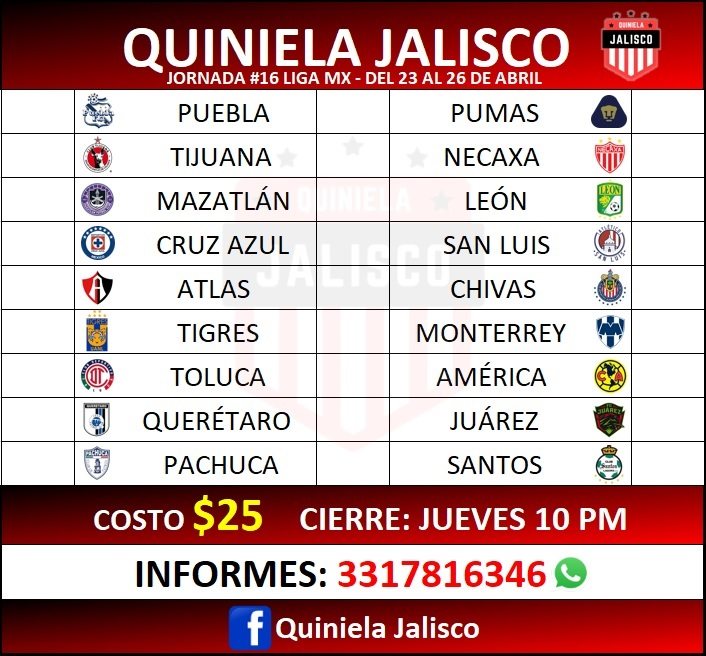
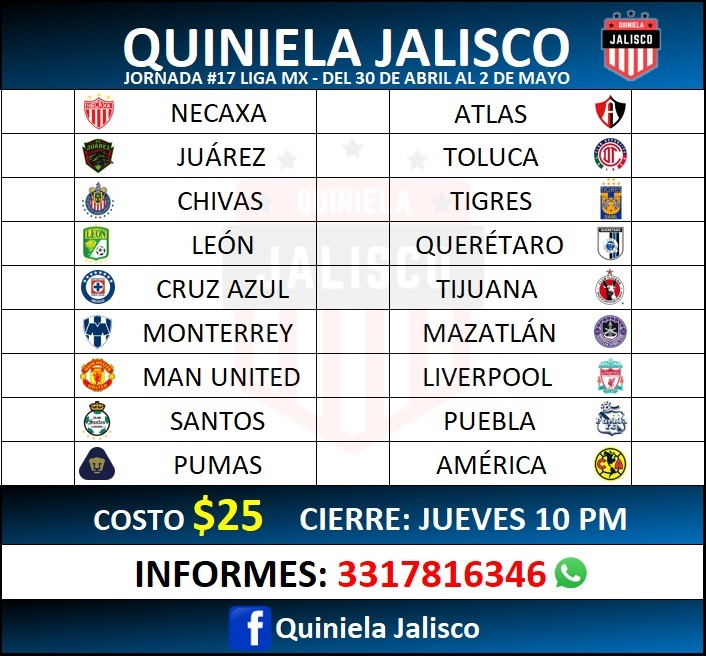
Jornada 17 C21

diff --git a/styles.css b/styles.css
@@ -88,8 +88,8 @@ h1{
     margin-top: 8%;
     border: solid 1px black;
     border-radius: 0 0 14px 14px;
-    background: -webkit-linear-gradient(0.04turn, rgb(8,20,20)  ,rgb(243,0,0) 80%);
-    background: linear-gradient(0.04turn, rgb(8,20,20)  ,rgb(243,0,0) 80%);
+    background: -webkit-linear-gradient(0.04turn, rgb(8,20,20)  ,rgb(0,104,176) 80%);
+    background: linear-gradient(0.04turn, rgb(8,20,20)  ,rgb(0,104,176) 80%);
     font-size: x-large;
 }
 
